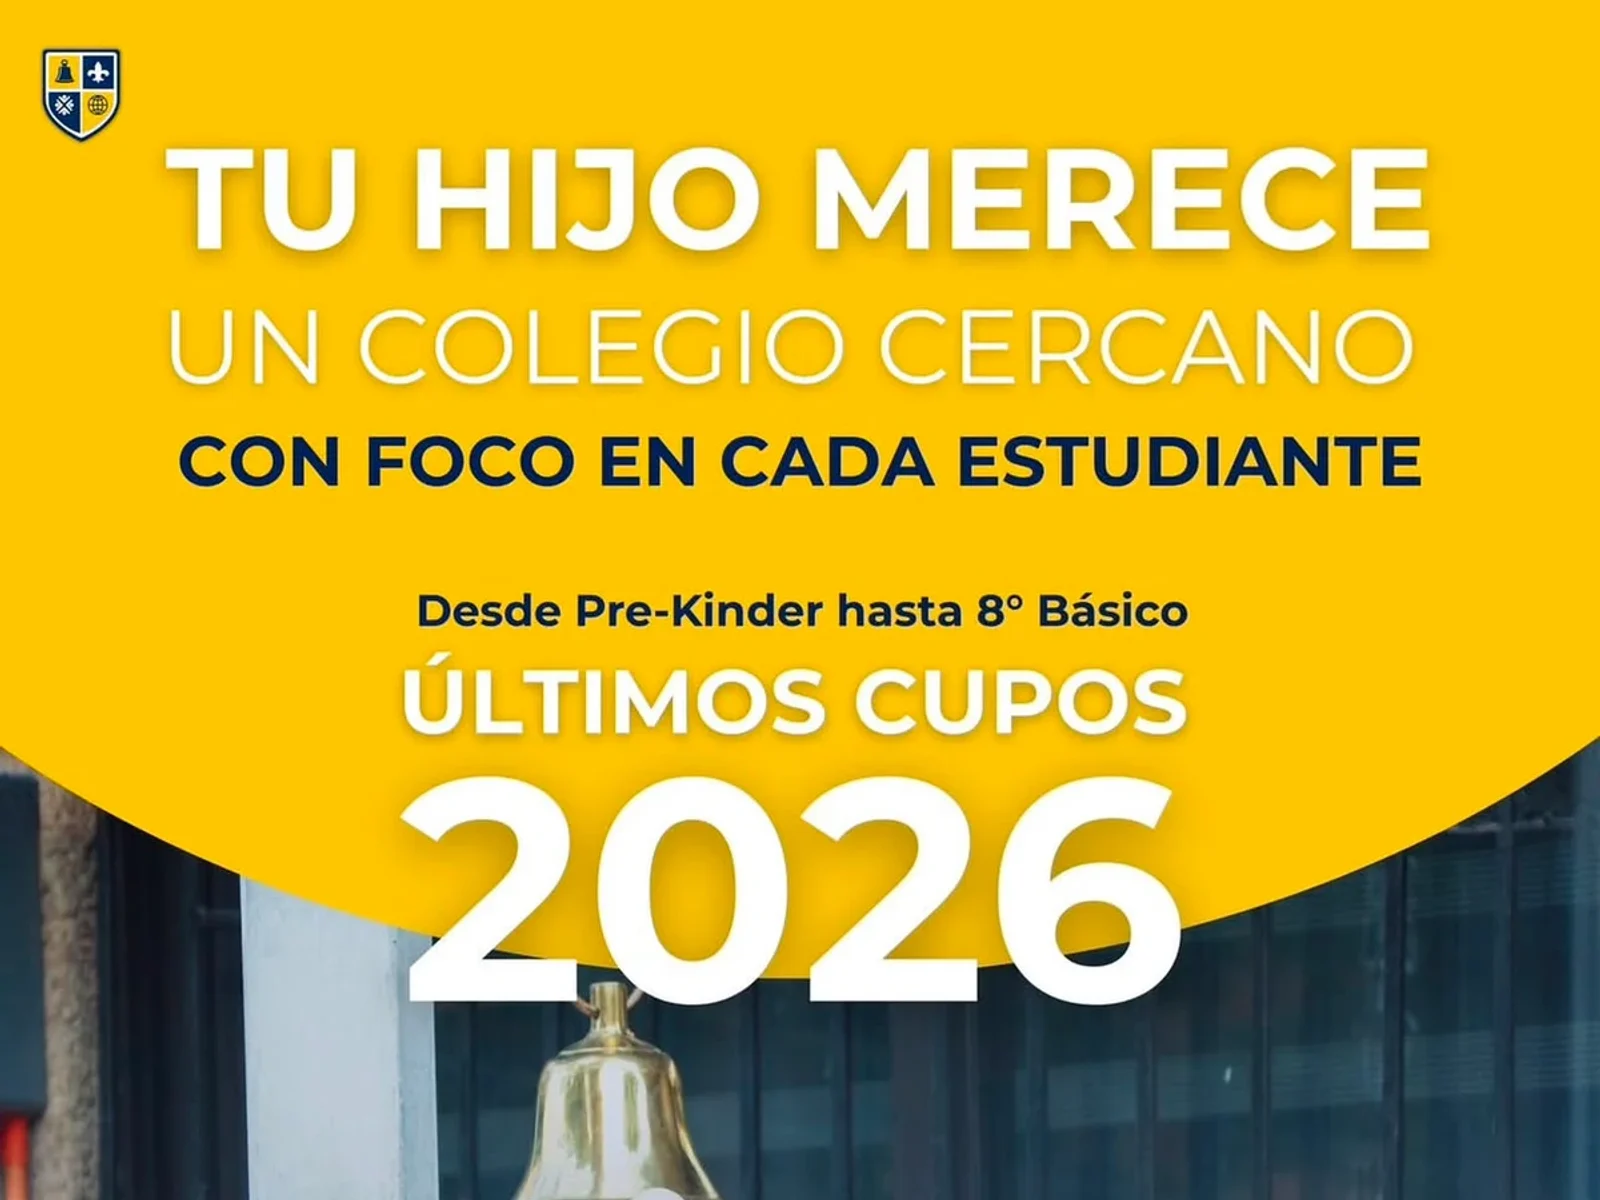
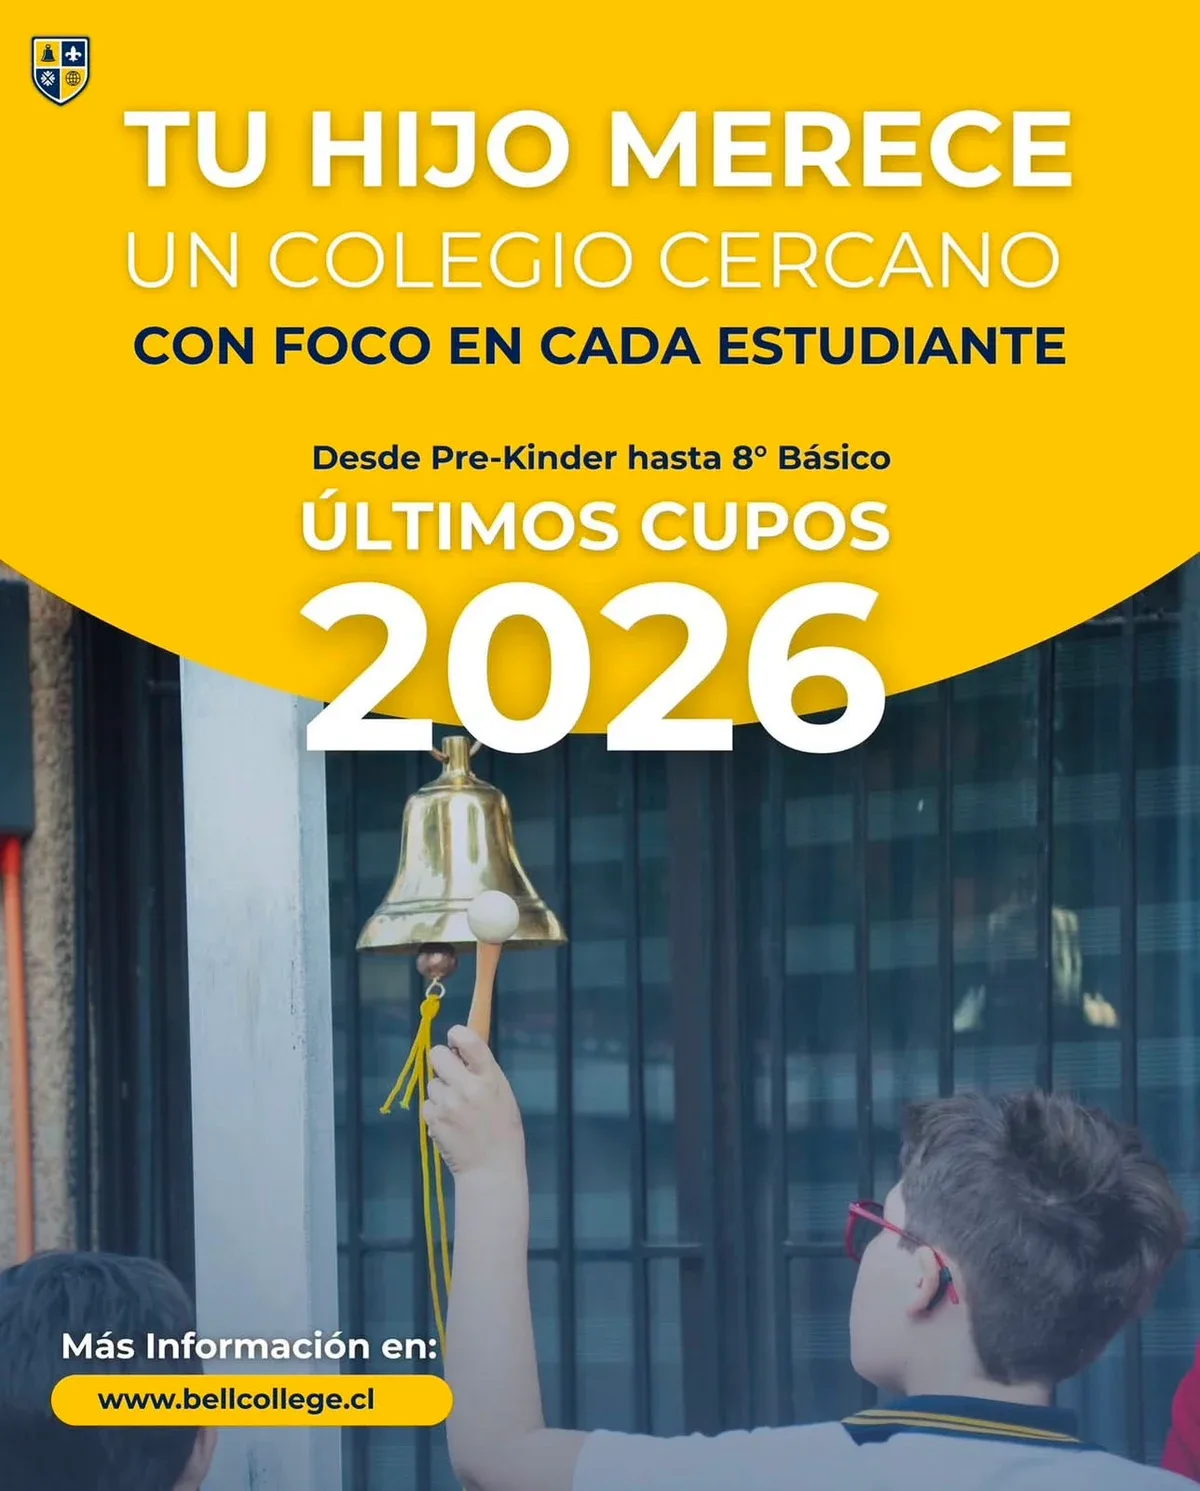
Arregla el collage de la home: las piezas ya no salen cortadas
Las 5 imagenes estaban forzadas a 4:3 desde originales verticales, lo
que cortaba el remate de cada pieza (el 2026 de Bell College, el 100%
Online de BSchool) y partia por la mitad las tarjetas de producto de
las capturas de celular.

Se regeneran desde los originales de projects/gallery: las graficas
4:5 van completas y las capturas se cortan en una linea de fondo
uniforme detectada por pixel, para que ninguna tarjeta quede partida.
.polaroid img pasa a height:auto (proporcion real, sin recorte) y el
collage se reordena en zigzag con alto proporcional al ancho.

diff --git a/src/styles/global.css b/src/styles/global.css
@@ -1739,18 +1739,25 @@ html.intro-lock body { overflow: hidden; }
 .manifesto__collage {
   position: relative;
   margin-top: clamp(64px, 9vw, 130px);
-  height: clamp(700px, 52vw, 760px);
+  /* Alto proporcional al ancho: como las tarjetas miden un % del ancho,
+     su altura escala igual y la caja nunca queda corta ni con un vacío. */
+  aspect-ratio: 1338 / 582;
 }
 .polaroid-pos { position: absolute; will-change: transform; }
-.polaroid-pos--1 { width: 30%; left: 0;    top: 4%; }
-.polaroid-pos--2 { width: 22%; left: 30%;  top: 26%; }
-.polaroid-pos--3 { width: 34%; right: 0;   top: 0; }
-.polaroid-pos--4 { width: 24%; left: 12%;  bottom: 2%; }
-.polaroid-pos--5 { width: 30%; right: 12%; bottom: 0; }
+/* Las piezas son verticales (gráficas 4:5 y capturas de celular), así que
+   las tarjetas son más angostas y altas que antes. Van en zigzag —alta,
+   baja, alta, baja, alta— para repartir el peso a lo ancho sin taparse. */
+.polaroid-pos--1 { width: 20%; left: 1%;  top: 4%; }
+.polaroid-pos--2 { width: 17%; left: 23%; top: 38%; }
+.polaroid-pos--3 { width: 21%; left: 41%; top: 0; }
+.polaroid-pos--4 { width: 17%; left: 63%; top: 40%; }
+.polaroid-pos--5 { width: 19%; left: 80%; top: 6%; }
 .polaroid {
   position: relative;
   background: #fff;
-  padding: 10px 10px 38px;
+  /* El marco escala con el ancho: con padding fijo, en tablet el borde
+     inferior quedaba enorme frente a una foto ya pequeña. */
+  padding: clamp(6px, 0.75vw, 10px) clamp(6px, 0.75vw, 10px) clamp(22px, 2.9vw, 38px);
   box-shadow: 0 26px 70px rgba(20, 20, 20, 0.18);
   transition: transform 0.6s cubic-bezier(0.22, 1, 0.36, 1);
 }
@@ -1773,11 +1780,14 @@ html.intro-lock body { overflow: hidden; }
   box-shadow: 0 3px 8px rgba(20, 20, 20, 0.12);
   z-index: 2;
 }
+/* Sin aspect-ratio fijo: cada pieza conserva su proporción real. Forzar
+   4:3 recortaba el remate de las gráficas verticales (el "2026" de Bell
+   College, el "100% Online" de BSchool) y partía las tarjetas de producto
+   de las capturas de celular. */
 .polaroid img {
   display: block;
   width: 100%;
-  aspect-ratio: 4 / 3;
-  object-fit: cover;
+  height: auto;
   filter: saturate(1.05);
 }
 .polaroid__cap {
@@ -1796,9 +1806,16 @@ html.intro-lock body { overflow: hidden; }
     display: grid;
     grid-template-columns: 1fr 1fr;
     gap: 26px 16px;
+    align-items: start;
   }
   .polaroid-pos { position: static; width: auto !important; }
-  .polaroid-pos--5 { grid-column: 1 / -1; }
+  /* La quinta queda sola en la última fila: centrada y a media caja, para
+     que no se vea desproporcionada ahora que las piezas son verticales. */
+  .polaroid-pos--5 {
+    grid-column: 1 / -1;
+    justify-self: center;
+    width: 50% !important;
+  }
 }
 
 /* ── Servicios urbanos — lista con preview flotante ──────────────── */
